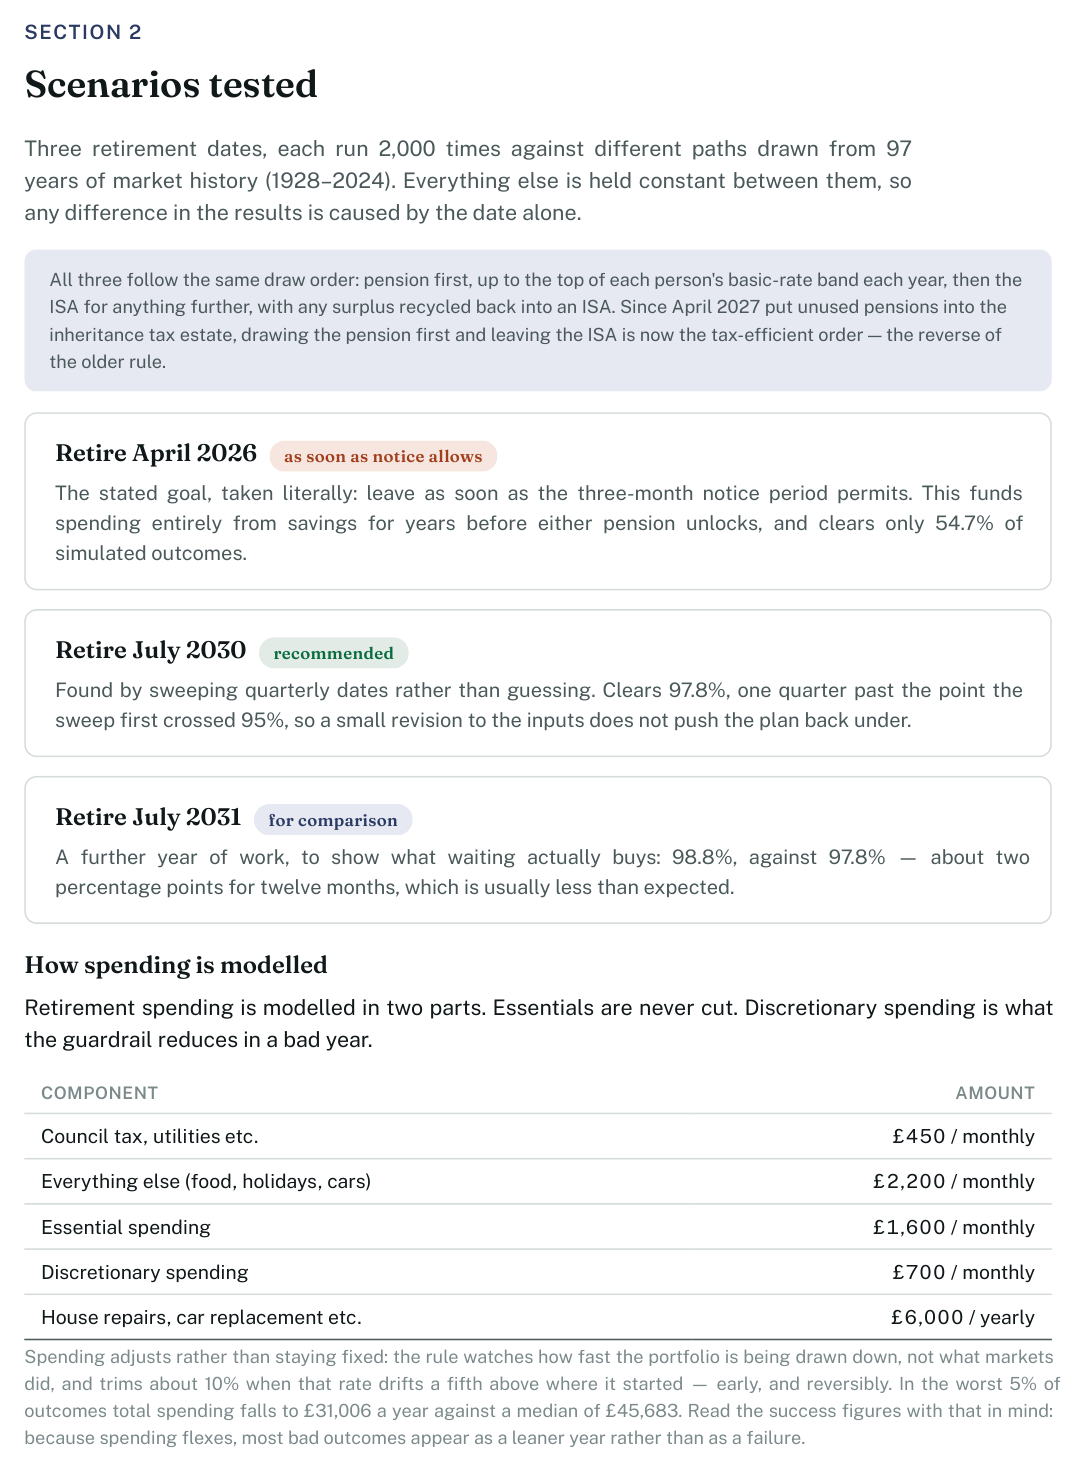
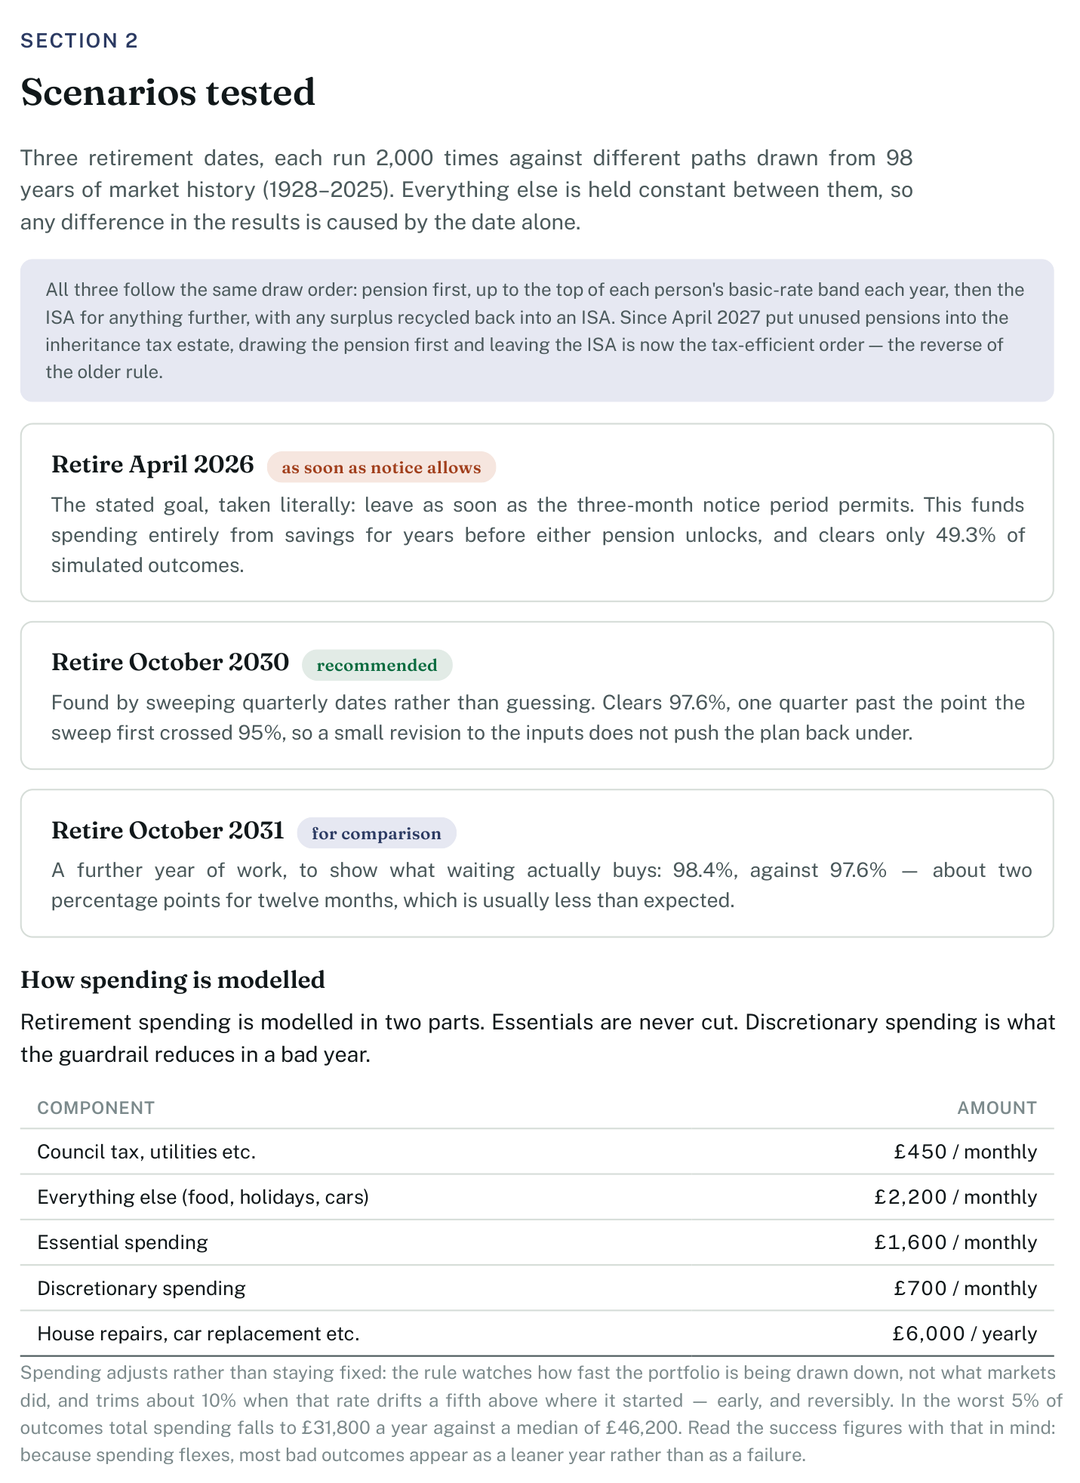
Re-run the sample client on the new data, and fix a wrong mechanism in it
The deflator change and the extra year of history moved the fabricated
household: base case 42% to 49.4%, and the sweep that picks the recommended
date shifted with it. Re-swept -- under all three withdrawal rules this time,
since this file is the worked example the define-scenarios skill points at and
it was still choosing on GuytonKlinger alone. That matters here: GK clears 95%
at 2029-10, three quarters earlier than the worst of the three does, which is
exactly the trap REVIEW.md 1.12 describes. RECOMMENDED moves to October 2030,
keeping the file's own stated rule of one quarter past the crossing.

Reading the rendered pages also caught a mechanism the report had simply got
wrong, and had been wrong before this change. Recommendation 1 explained the
later date by "the mortgage finishes and the gap between stopping work and the
pensions unlocking gets shorter". Neither is true: the mortgage runs to July
2038, eight years past the recommended date, and there is no gap at all --
Pat's pension is accessible from April 2026, and Section 4 of the same report
says so, so the document contradicted itself. Replaced with what actually
drives it, which is four and a half more years of contributions and four and a
half fewer of drawdown.

README images regenerated from the rebuilt PDF. The alt text still describes
them correctly, including the ISA fan chart's £26M 95th percentile.

Changed region(s): [[0.0, 0.0, 0.9778, 1.0], [0.8556, 0.5816, 0.9778, 0.6429], [0.9472, 0.4898, 0.9778, 0.5204]]

diff --git a/workspace/sample_client/scenarios.py b/workspace/sample_client/scenarios.py
@@ -54,22 +54,34 @@ STRETCH = add_months(AS_OF, NOTICE_PERIOD_MONTHS)
 
 #: Where a quarterly sweep clears 95%, plus one quarter of margin.
 #:
-#: The base case fails badly (42%), so the question became "when does this
-#: actually work?" -- swept quarterly from 2029 to 2031:
+#: The base case does not clear (49.4%), so the question became "when does
+#: this actually work?" -- swept quarterly from 2029 to 2031 under all three
+#: withdrawal rules, because `GuytonKlinger` alone is not trustworthy for this
+#: (REVIEW.md 1.12, and see `define-scenarios`). Success on the worst of the
+#: three is what the date is chosen on:
 #:
-#:     2029-10  93.2%      2030-07  95.7%   <- RECOMMENDED
-#:     2030-01  94.4%      2030-10  96.5%
-#:     2030-04  95.2%      2031-01  97.2%
+#:              GK   SpendNominal  PostAccessStepUp    worst
+#:     2029-10  95.5%    92.8%          92.8%          92.8%
+#:     2030-01  96.5%    94.0%          93.9%          93.9%
+#:     2030-04  96.2%    95.0%          94.9%          94.9%
+#:     2030-07  97.0%    95.5%          95.2%          95.2%   <- crossing
+#:     2030-10  97.6%    96.4%          96.2%          96.2%   <- RECOMMENDED
+#:     2031-01  97.8%    96.9%          96.8%          96.8%
 #:
-#: April 2030 is the exact crossing point. The curve either side of it is a
-#: smooth ~1%/quarter slope rather than a cliff, so one quarter of margin is
-#: enough; on a cliff it would need more. Recommending the crossing point
-#: itself would leave a plan that fails on any small revision to the inputs.
-RECOMMENDED = date(2030, 7, 1)
+#: Note what taking GK on its own would have done: it clears 95% a full three
+#: quarters earlier, at 2029-10. That is the trap the sweep exists to avoid.
+#:
+#: July 2030 is the crossing point on the worst column. The curve either side
+#: is a smooth ~1.3 points/quarter slope rather than a cliff, so one quarter of
+#: margin is enough; on a cliff it would need more. Recommending the crossing
+#: point itself would leave a plan that fails on any small revision to the
+#: inputs.
+RECOMMENDED = date(2030, 10, 1)
 
-#: A further year, to show what waiting actually buys (97.9% — about two
-#: points for twelve months, which is usually less than clients expect).
-CONSERVATIVE = date(2031, 7, 1)
+#: A further year, to show what waiting actually buys (98.1% on the worst rule
+#: — about two points for twelve months, which is usually less than clients
+#: expect).
+CONSERVATIVE = date(2031, 10, 1)
 
 
 def _retire_both(when: date) -> dict[str, date]:

diff --git a/workspace/sample_client/build_report.py b/workspace/sample_client/build_report.py
@@ -218,12 +218,14 @@ def build_context() -> dict:
                 "body": (
                     f"Leaving as soon as notice allows clears only "
                     f"{pct(stretch.success_probability)}. {RECOMMENDED:%B %Y} clears "
-                    f"{pct(recommended.success_probability)}. The difference is not mainly "
-                    f"the extra saving — it is that the mortgage finishes and the gap "
-                    f"between stopping work and the pensions unlocking gets shorter, so "
-                    f"less has to come out of the ISAs while they are still the only "
-                    f"source. This would change if the mortgage were repaid early, which "
-                    f"would move the date earlier."
+                    f"{pct(recommended.success_probability)}. The mechanism is plain: "
+                    f"four and a half more years of salary and contributions go in, and "
+                    f"four and a half fewer years come out. Nothing else changes — Pat's "
+                    f"pension is already accessible, so there is no locked-up gap to "
+                    f"shorten, and the mortgage runs to 2038 either way, which is why it "
+                    f"is a drag on the early date rather than a reason for the later one. "
+                    f"What would change this: repaying the mortgage, or Robin working on "
+                    f"alone for a year or two, both buy back most of the difference."
                 ),
             },
             {
